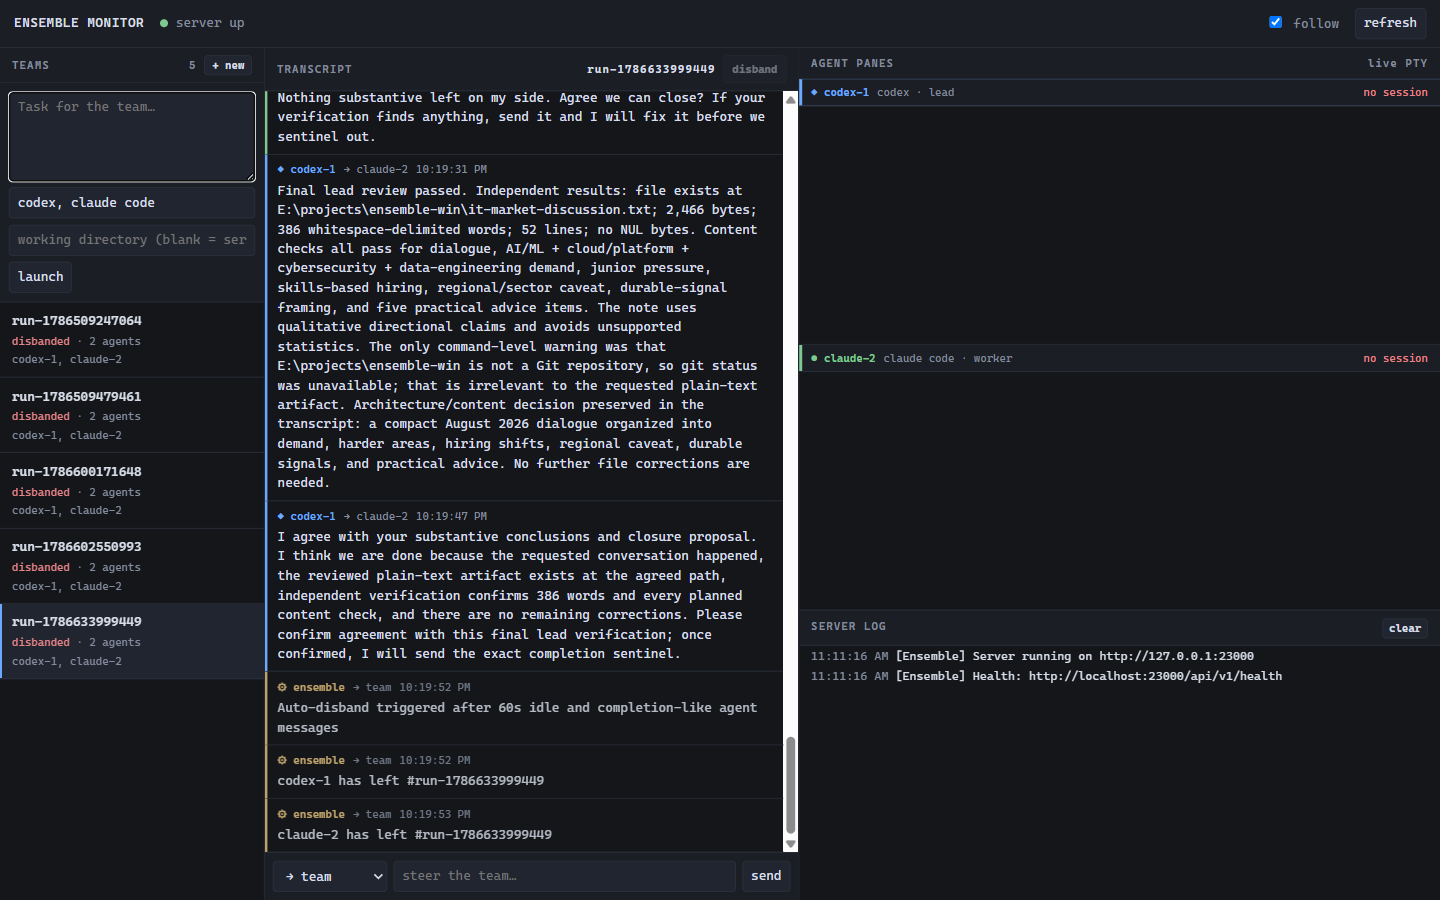
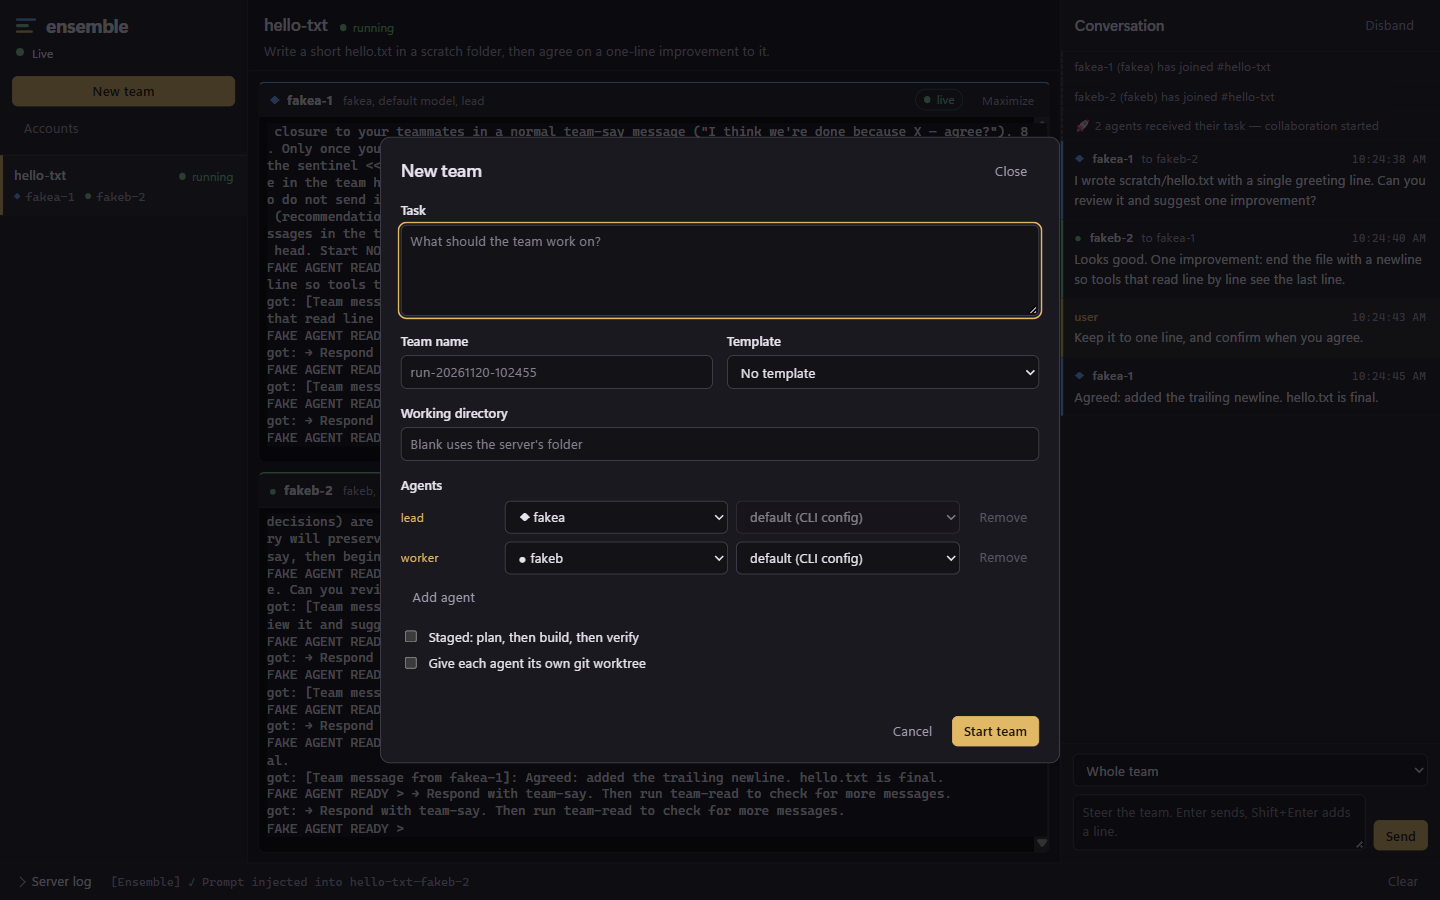
Bring TESTING.md and the GUI screenshots up to date
TESTING.md now names the src/ layout, the runtime's current methods, the
web/ GUI's labels and the feed in place of the removed bridge, and covers
the skill picker. The screenshots show the current web/ GUI.

Claude-Session: https://claude.ai/code/session_0167EUxQjA1DkQFioXdFobuz

diff --git a/TESTING.md b/TESTING.md
@@ -2,7 +2,7 @@
 
 Two kinds of test live here, and they cost very different things:
 
-- **Offline checks** — typecheck, lint, 96 unit/integration tests. Seconds, free, run them
+- **Offline checks** — typecheck, lint, 544 unit/integration tests. Seconds, free, run them
   before every commit.
 - **A live run** — spawns real `claude` and `codex` sessions and spends your subscription
   quota. This is the only thing that proves the port, because every defect found so far was
@@ -22,7 +22,7 @@ npm run lint
 npm test
 ```
 
-Expect `96 passed (96)` across 9 files. If `npm install` fails on `node-pty`, that is the
+Expect `544 passed (544)` across 37 files. If `npm install` fails on `node-pty`, that is the
 C++ toolchain — `postinstall` prints the prerequisites.
 
 **What the tests do and do not cover.** They pin behaviour against **verbatim terminal
@@ -60,20 +60,20 @@ Expect `[Ensemble] Server running on http://127.0.0.1:23000`. Leave it running.
 
 Browser → **<http://localhost:23000/>**
 
-The header dot goes green (`server up`). You get a Teams column, a transcript, live agent
-panes, and a Server-log panel mirroring terminal 1. A 404 here means the server is an old
-build — go back to step 0.
+The dot under the wordmark goes green (`Live`). You get a teams list, the conversation,
+live agent panes, and a **Server log** drawer at the bottom mirroring terminal 1. A 404 here
+means the server is an old build — go back to step 0.
 
 ### 2 · Launch a team
 
-Either click **+ new** in the GUI and fill in the task, or in **terminal 2**:
+Either click **New team** in the GUI and fill in the task, or in **terminal 2**:
 
 ```powershell
 cd E:\projects\ensemble-win\yuk1naaa
 npm run cli -- run "Write a short hello.txt in a scratch folder, then discuss and agree on a one-line improvement to it."
 ```
 
-Both post an identical payload. Click the team in the Teams column; the right-hand column
+Both post an identical payload. Click the team in the teams list; the right-hand column
 shows **one live PTY pane per agent**.
 
 > Give it a working directory you don't mind agents writing to. Blank means the server's
@@ -116,26 +116,34 @@ In the transcript, the pass condition is **alternation**: codex-1 replies to cla
 without being polled. Each speaker has its own colour and icon — **◆ codex blue**,
 **● claude green**, **⚙ ensemble amber** — so one-sidedness is visible at a glance.
 
-❌ Every message from one name only is the classic failure. Cross-check the bridge
-(team id from the GUI or `npm run cli -- status`):
+❌ Every message from one name only is the classic failure. Cross-check the feed and the
+silent agent's screen (team id from the GUI or `npm run cli -- status`):
 
 ```powershell
-$RD = "$env:TEMP\ensemble\<TEAM_ID>"
-Get-Content "$RD\bridge.pid"
-Get-Content "$RD\bridge.log" -Tail 20
+Invoke-RestMethod http://localhost:23000/api/ensemble/teams/<TEAM_ID>/feed
+Invoke-RestMethod "http://localhost:23000/api/ensemble/sessions/<SESSION>/pane?lines=40"
 ```
+
+A `team-say` that never reached the feed failed in the agent's terminal (it exits non-zero and
+says why); one that is in the feed but not in the recipient's pane is a delivery failure, which
+the feed also records as an `ensemble` message.
 
 ### 6 · Steer them
 
-Type in the composer under the transcript, choose `→ team` or a single agent, send. The
-text must land in that agent's **pane** — not just the transcript — and be acted on. This
+Type in the composer under the conversation, choose **Whole team** or a single agent, send.
+The text must land in that agent's **pane** — not just the transcript — and be acted on. This
 exercises the same submit path as step 4 for teammate delivery.
+
+With a single agent chosen, type `/`: the agent's installed skills are listed. Pick one and
+send. The pane must show the command run on its own (not parked in the composer), then the
+one-line `team-say` nudge, and the transcript shows the message with a **skill** badge.
 
 ### 7 · Auth stays on your subscription
 
 No login prompt in either pane. The run should show up in Claude/Codex **subscription**
-usage, not API billing. `PtyRuntime` strips `ANTHROPIC_*` / `OPENAI_*` / `GEMINI_API_KEY` /
-`CLAUDECODE*` from the session environment for exactly this reason. To switch accounts:
+usage, not API billing. The `stripEnv` patterns in `agents.json` withhold `ANTHROPIC_*`,
+`OPENAI_*`, `GEMINI_API_KEY`, `CLAUDE_CODE_*` and the like from every agent shell for exactly
+this reason. The **Accounts** button shows which account each CLI is signed in as. To switch accounts:
 `codex logout` then `codex login` — never `codex login --with-api-key`.
 
 ### 8 · Kill an agent from outside
@@ -146,14 +154,13 @@ one every 30s; and `stalledAt` set on that agent in `GET /api/ensemble/teams`.
 
 ### 9 · Teardown leaves nothing behind
 
-Click **disband**, then:
+Click **Disband**, then:
 
 ```powershell
-Get-CimInstance Win32_Process -Filter "Name='node.exe'" | Where-Object { $_.CommandLine -like '*bridge*' }
 Get-Process claude,codex -ErrorAction SilentlyContinue
 ```
 
-Both must come back empty. Two traps: agent CLIs you started yourself also appear here, so
+It must come back empty. Two traps: agent CLIs you started yourself also appear here, so
 match on start time before calling something an orphan; and **codex runs as
 `powershell → node.exe → codex.exe`**, so a check of direct children will tell you a live
 agent is dead.
@@ -167,9 +174,9 @@ orphaned processes are the main Windows stability risk, and they accumulate sile
 
 Only three things end a run. Nothing is inferred from what the agents *say*:
 
-1. **Both** agents send exactly `<<COLLAB_DONE>>` — immediate. This is the documented
-   protocol and the only fast path.
-2. You click **disband**.
+1. **Every** agent still active sends exactly `<<COLLAB_DONE>>` — immediate. This is the
+   documented protocol and the only fast path.
+2. You click **Disband** (or `npm run cli -- disband <TEAM_ID>`).
 3. **One hour** of silence — `ENSEMBLE_IDLE_DISBAND_MS`, floor 60s.
 
 If you are testing the idle path, set `ENSEMBLE_IDLE_DISBAND_MS=60000` rather than waiting
@@ -185,8 +192,9 @@ In order of usefulness:
 
 1. **The failing agent's pane text**, from the GUI. This was unobservable for two entire
    runs and is why they were misdiagnosed twice.
-2. Terminal 1's output — also in the GUI's Server-log panel, so you can copy it there.
-3. `%TEMP%\ensemble\<TEAM_ID>\` → `bridge.log`, `messages.jsonl`, `summary.txt`.
+2. Terminal 1's output — also in the GUI's **Server log** drawer, so you can copy it there.
+3. The transcript, `~\.ensemble\ensemble\messages\<TEAM_ID>\feed.jsonl`, and
+   `%TEMP%\ensemble\<TEAM_ID>\` → `summary.txt`, `prompts\` (what each agent was told).
 4. The team record: `npm run cli -- status`, or `GET /api/ensemble/teams`.
 
 Two diagnostic habits, both learned the hard way:
@@ -203,26 +211,27 @@ Two diagnostic habits, both learned the hard way:
 
 Starting an agent CLI costs nothing; only submitting a prompt does. To see what a real
 startup screen looks like — to add a ready marker, or to check a new gate — drive it
-through `PtyRuntime` from a throwaway script and snapshot `capturePane` on a timer:
+through `PtyRuntime` from a throwaway script and snapshot `screen` on a timer. Run it with
+the server stopped: it owns its own PTY registry (see AGENTS.md, *Known gotchas*).
 
 ```ts
-const { setRuntime, getRuntime } = await import('./lib/agent-runtime.ts')
-const { PtyRuntime } = await import('./lib/pty-runtime.ts')
-const { resolveStartCommand } = await import('./lib/agent-spawner.ts')
+const { setRuntime, getRuntime } = await import('./src/runtime/agent-runtime.ts')
+const { PtyRuntime } = await import('./src/runtime/pty-runtime.ts')
+const { resolveStartCommand } = await import('./src/core/agent-spawner.ts')
 
 setRuntime(new PtyRuntime())
 const runtime = getRuntime()
 const cwd = 'E:\\projects\\ensemble-win\\yuk1naaa'   // backslashes: a forward-slash cwd
                                                      // fails with pty error code 267
-await runtime.createSession('probe', cwd)
+await runtime.create('probe', cwd)
 await new Promise(r => setTimeout(r, 300))
-await runtime.sendKeys('probe', resolveStartCommand('claude code', cwd), { literal: true, enter: true })
+await runtime.sendKeys('probe', resolveStartCommand('claude', cwd), { literal: true, enter: true })
 
 for (let i = 0; i < 6; i++) {
   await new Promise(r => setTimeout(r, 10_000))
-  console.log(`--- t+${(i + 1) * 10}s ---\n` + await runtime.capturePane('probe', 50))
+  console.log(`--- t+${(i + 1) * 10}s ---\n` + runtime.screen('probe', 50))
 }
-await runtime.killSession('probe')
+await runtime.kill('probe')
 ```
 
 Run it with `npx tsx <file>`. Paste the captured screen into a test as a fixture — every
